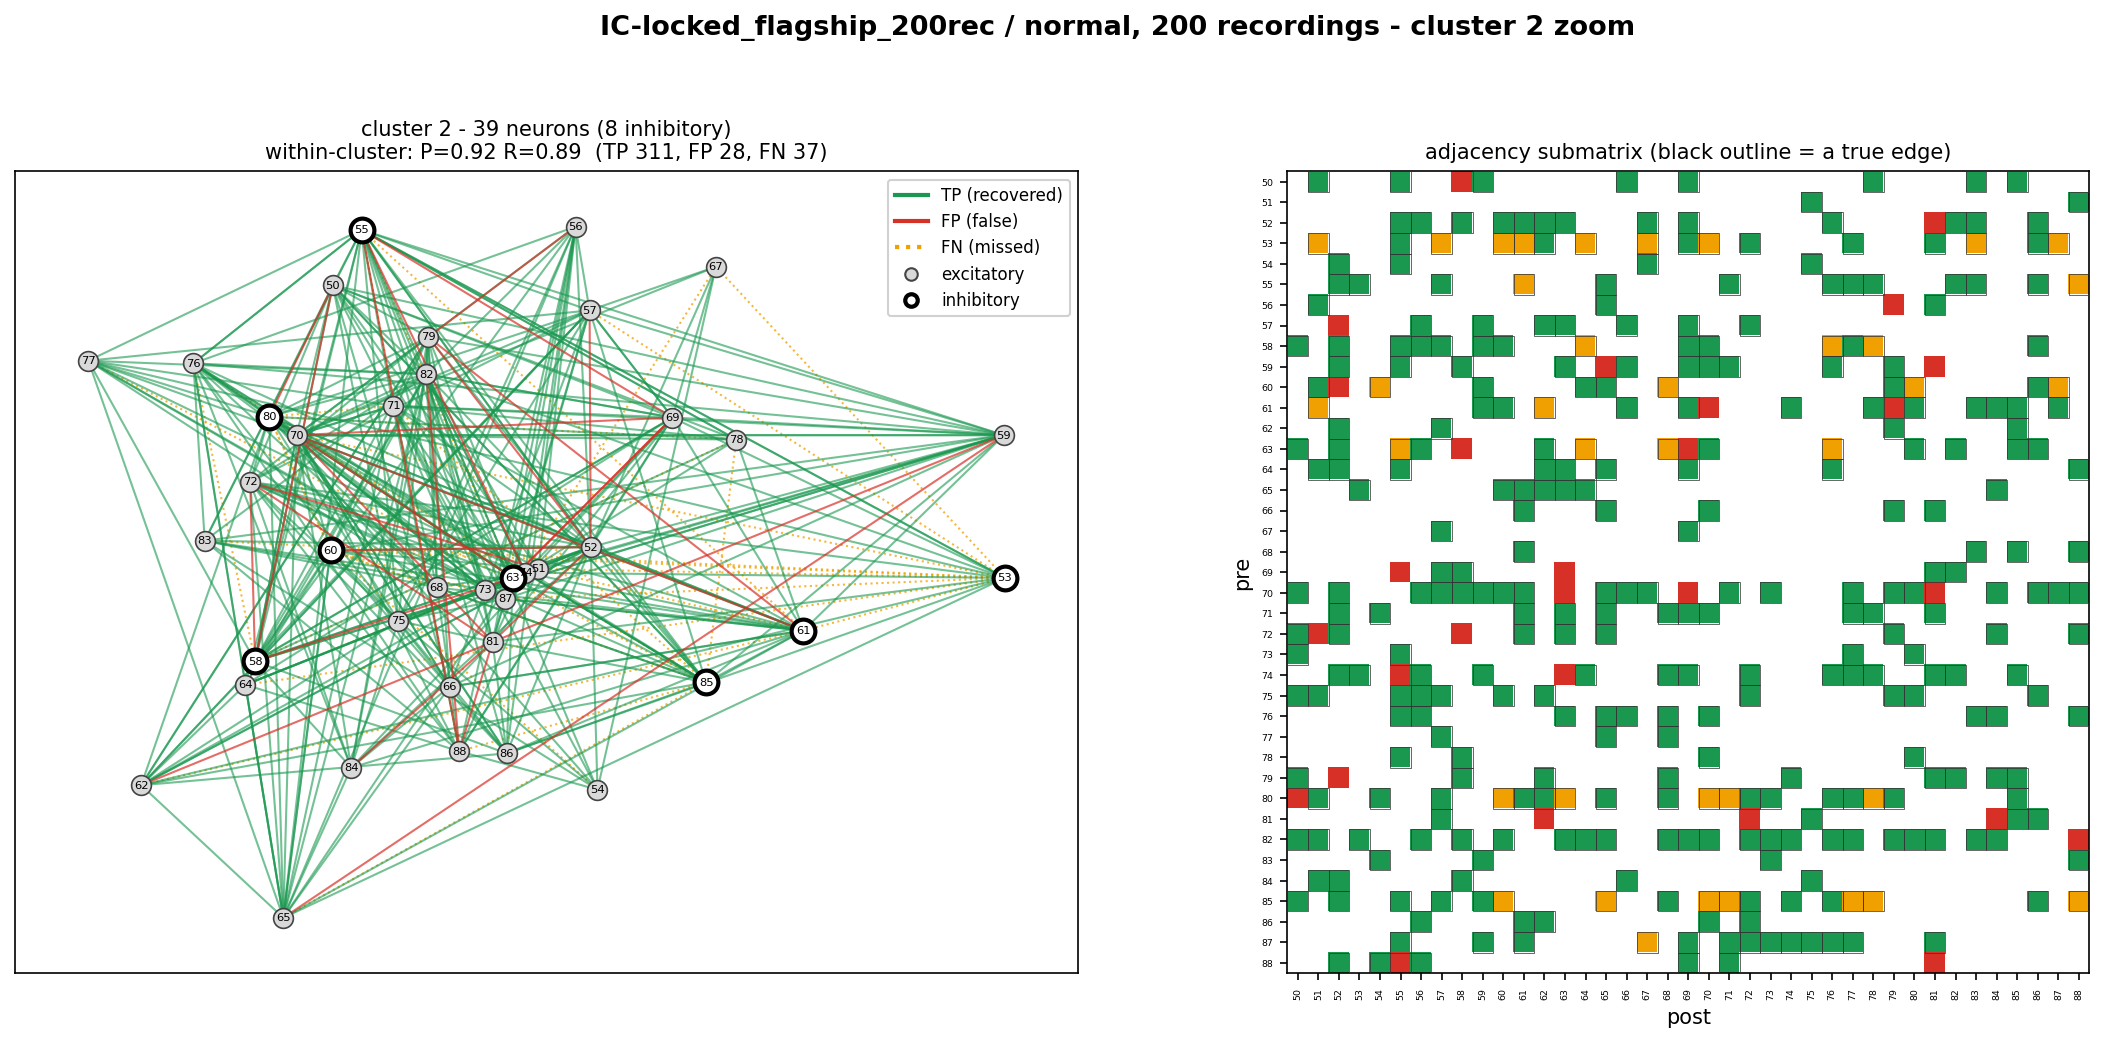
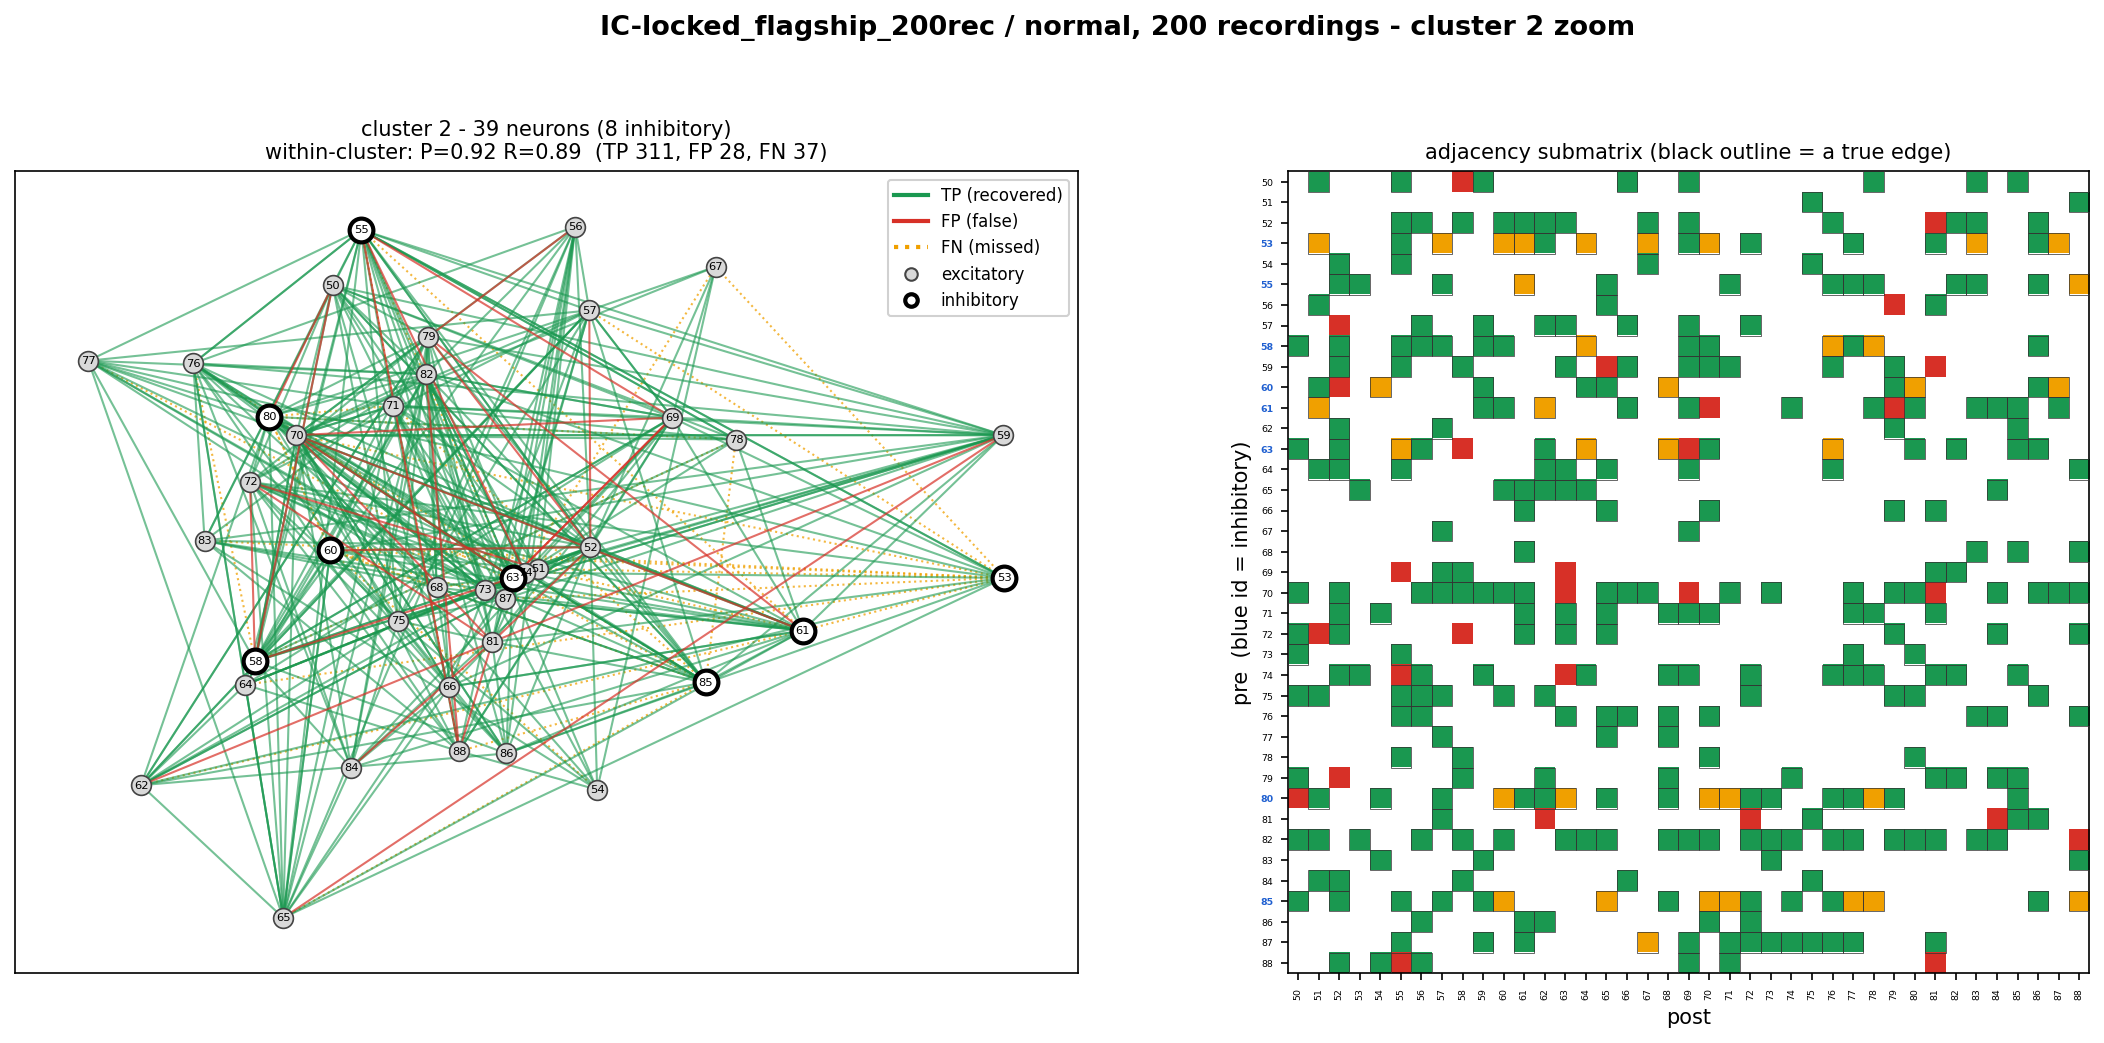
Mark inhibitory presynaptic rows in the zoom matrices; correct the docstring
The near-empty orange rows in the adjacency panels are inhibitory presynaptic
neurons losing most or all of their out-edges, so mark them: blue ids on the
per-cluster matrices, blue ticks on the group matrices. This makes the E/I
recall asymmetry readable off the figure instead of only off a table.

Measured on the n=200 normal fit: 53 of the 54 neurons that lose their ENTIRE
out-row are inhibitory -- 31.4% of inhibitory neurons against 0.1% of
excitatory. The cause is the typing gate, not weak edges. The inhibitory
candidate set only contains pairs whose presynaptic neuron was typed
inhibitory, so all 36 true-inhibitory neurons the rank rule misses have recall
exactly 0 by construction; their negative weights cannot clear the excitatory
threshold either. 17 more were typed correctly and still lost every edge.
Edge-level recall is 0.894 excitatory vs 0.565 inhibitory.

Also correct the docstring, which claimed the panels draw "every edge that
touches the cluster". They slice np.ix_(ids, ids) -- both endpoints must be in
the cluster, so edges leaving it are not drawn. Say so, and point at
--group-size for the view that does show between-cluster edges.

diff --git a/analysis/glm_topology_zoom.py b/analysis/glm_topology_zoom.py
@@ -4,16 +4,31 @@ The whole-network figure draws 13,356 edges over 926 neurons, so the neurons
 disappear under the lines. These zooms take one cluster at a time:
 
     left   spatial view of that cluster's neurons -- each one visible, excitatory
-           filled grey, inhibitory ringed -- with every edge that touches the
-           cluster drawn as TP / FP / FN
+           filled grey, inhibitory ringed -- with the WITHIN-cluster edges drawn
+           as TP / FP / FN
     right  the adjacency submatrix for the same neurons, one cell per pair, with
            the true edge outlined so hits and misses are countable by eye
 
-One PNG per cluster, plus a combined figure covering several clusters at once.
-Scores in each title are computed over the WITHIN-cluster pairs shown.
+Only pairs with BOTH endpoints in the cluster are shown; an edge from a cluster
+neuron to a neuron outside it is not drawn. Scores in each title are computed
+over those within-cluster pairs, so they are local and differ from the global
+P=0.87 / R=0.85. Use --group-size to put several adjacent clusters in one panel,
+which does show the between-cluster edges.
 
-    python glm_topology_zoom.py                    # 3 largest clusters
+Reading the rows: near-empty rows in these matrices are almost always inhibitory
+presynaptic neurons, so inhibitory ids are marked in blue. Measured on the n=200
+normal fit: 53 of the 54 neurons that lose their ENTIRE out-row are inhibitory --
+31.4% of inhibitory neurons versus 0.1% of excitatory ones. The cause is the
+typing gate rather than weak edges: the inhibitory candidate set only contains
+pairs whose presynaptic neuron was typed inhibitory, so all 36 true-inhibitory
+neurons that the rank rule missed have recall exactly 0 by construction (their
+negative weights cannot clear the excitatory threshold either). A further 17 were
+typed correctly and still lost every edge. Edge-level recall is 0.894 excitatory
+versus 0.565 inhibitory.
+
+    python glm_topology_zoom.py                    # 3 largest clusters + groups
     python glm_topology_zoom.py --clusters 4 2 35
+    python glm_topology_zoom.py --group-size 3 --n-groups 4
 """
 
 import argparse
@@ -42,7 +57,7 @@ SD = resolve(_S, _T)
 RESULTS = results_dir(_S, _T, "glm")
 FIGS = results_dir(_S, _T, "figures")
 
-GREEN, RED, ORANGE = "#1a9850", "#d73027", "#f0a000"
+GREEN, RED, ORANGE, BLUE = "#1a9850", "#d73027", "#f0a000", "#1f5fd0"
 
 
 def load():
@@ -120,8 +135,14 @@ def panels(d, ids, ax_sp, ax_mx, title_prefix, show_ids=True):
         ax_mx.set_yticks(range(n))
         ax_mx.set_xticklabels([str(g) for g in ids], fontsize=4.5, rotation=90)
         ax_mx.set_yticklabels([str(g) for g in ids], fontsize=4.5)
+        # inhibitory presynaptic ids in blue: rows that lose most or all of
+        # their edges are overwhelmingly these (see module docstring)
+        for t, g in zip(ax_mx.get_yticklabels(), ids):
+            if inh[g]:
+                t.set_color(BLUE)
+                t.set_fontweight("bold")
     ax_mx.set_xlabel("post")
-    ax_mx.set_ylabel("pre")
+    ax_mx.set_ylabel("pre  (blue id = inhibitory)")
     ax_mx.set_title("adjacency submatrix (black outline = a true edge)",
                     fontsize=10)
     return dict(n=len(ids), TP=TP, FP=FP, FN=FN, precision=Pr, recall=Rc)
@@ -190,8 +211,12 @@ def group_panels(d, clusters, ax_sp, ax_mx):
     ax_mx.set_yticks(mids)
     ax_mx.set_xticklabels(["c%d" % c for c in clusters], fontsize=9)
     ax_mx.set_yticklabels(["c%d" % c for c in clusters], fontsize=9)
+    # mark inhibitory presynaptic rows -- the sparse/empty rows line up with these
+    inh_rows = np.where(inh[ids])[0]
+    ax_mx.plot(np.full(len(inh_rows), -0.045 * len(ids)), inh_rows, "_",
+               color=BLUE, ms=5, mew=1.6, clip_on=False, zorder=6)
     ax_mx.set_xlabel("post")
-    ax_mx.set_ylabel("pre")
+    ax_mx.set_ylabel("pre   (blue ticks = inhibitory)")
     ax_mx.set_title("adjacency, blocks = clusters\n"
                     "diagonal blocks within-cluster, off-diagonal between",
                     fontsize=10)

diff --git a/analysis/write_figures_index.py b/analysis/write_figures_index.py
@@ -96,7 +96,11 @@ FIGURES = {
         "Same npz and operating point as glm_predicted_topology.png; this is a "
         "crop of it, not a re-fit. Only WITHIN-cluster pairs appear, so the "
         "precision and recall printed per cluster are local, not the global "
-        "P=0.87 / R=0.85."),
+        "P=0.87 / R=0.85. Inhibitory presynaptic ids are blue: the near-empty "
+        "orange rows line up with them. Network-wide, 53 of the 54 neurons that "
+        "lose their entire out-row are inhibitory (31.4% of inhibitory neurons "
+        "vs 0.1% of excitatory), driven by the typing gate -- the 36 true "
+        "inhibitory neurons the rank rule misses have recall 0 by construction."),
     "glm_topology_zoom_group1.png": (
         "analysis/glm_topology_zoom.py",
         "Four spatially adjacent clusters together: between-cluster edges are "

diff --git a/notebooks/NEURON data parallel/IC-locked_flagship_200rec/results/FIGURES.md b/notebooks/NEURON data parallel/IC-locked_flagship_200rec/results/FIGURES.md
@@ -103,7 +103,7 @@ ORACLE upper bounds vs duration: best achievable F1, and recall at a true 10% FD
 
 The three largest clusters, one row each: spatial zoom with neurons labelled by global id, and the within-cluster adjacency submatrix.
 
-*Pipeline:* Same npz and operating point as glm_predicted_topology.png; this is a crop of it, not a re-fit. Only WITHIN-cluster pairs appear, so the precision and recall printed per cluster are local, not the global P=0.87 / R=0.85.
+*Pipeline:* Same npz and operating point as glm_predicted_topology.png; this is a crop of it, not a re-fit. Only WITHIN-cluster pairs appear, so the precision and recall printed per cluster are local, not the global P=0.87 / R=0.85. Inhibitory presynaptic ids are blue: the near-empty orange rows line up with them. Network-wide, 53 of the 54 neurons that lose their entire out-row are inhibitory (31.4% of inhibitory neurons vs 0.1% of excitatory), driven by the typing gate -- the 36 true inhibitory neurons the rank rule misses have recall 0 by construction.
 
 ### `glm_topology_zoom_cluster04.png`
 
@@ -111,7 +111,7 @@ The three largest clusters, one row each: spatial zoom with neurons labelled by 
 
 The three largest clusters, one row each: spatial zoom with neurons labelled by global id, and the within-cluster adjacency submatrix.
 
-*Pipeline:* Same npz and operating point as glm_predicted_topology.png; this is a crop of it, not a re-fit. Only WITHIN-cluster pairs appear, so the precision and recall printed per cluster are local, not the global P=0.87 / R=0.85.
+*Pipeline:* Same npz and operating point as glm_predicted_topology.png; this is a crop of it, not a re-fit. Only WITHIN-cluster pairs appear, so the precision and recall printed per cluster are local, not the global P=0.87 / R=0.85. Inhibitory presynaptic ids are blue: the near-empty orange rows line up with them. Network-wide, 53 of the 54 neurons that lose their entire out-row are inhibitory (31.4% of inhibitory neurons vs 0.1% of excitatory), driven by the typing gate -- the 36 true inhibitory neurons the rank rule misses have recall 0 by construction.
 
 ### `glm_topology_zoom_cluster35.png`
 
@@ -119,7 +119,7 @@ The three largest clusters, one row each: spatial zoom with neurons labelled by 
 
 The three largest clusters, one row each: spatial zoom with neurons labelled by global id, and the within-cluster adjacency submatrix.
 
-*Pipeline:* Same npz and operating point as glm_predicted_topology.png; this is a crop of it, not a re-fit. Only WITHIN-cluster pairs appear, so the precision and recall printed per cluster are local, not the global P=0.87 / R=0.85.
+*Pipeline:* Same npz and operating point as glm_predicted_topology.png; this is a crop of it, not a re-fit. Only WITHIN-cluster pairs appear, so the precision and recall printed per cluster are local, not the global P=0.87 / R=0.85. Inhibitory presynaptic ids are blue: the near-empty orange rows line up with them. Network-wide, 53 of the 54 neurons that lose their entire out-row are inhibitory (31.4% of inhibitory neurons vs 0.1% of excitatory), driven by the typing gate -- the 36 true inhibitory neurons the rank rule misses have recall 0 by construction.
 
 ### `glm_topology_zoom_combined.png`
 
@@ -127,7 +127,7 @@ The three largest clusters, one row each: spatial zoom with neurons labelled by 
 
 The three largest clusters, one row each: spatial zoom with neurons labelled by global id, and the within-cluster adjacency submatrix.
 
-*Pipeline:* Same npz and operating point as glm_predicted_topology.png; this is a crop of it, not a re-fit. Only WITHIN-cluster pairs appear, so the precision and recall printed per cluster are local, not the global P=0.87 / R=0.85.
+*Pipeline:* Same npz and operating point as glm_predicted_topology.png; this is a crop of it, not a re-fit. Only WITHIN-cluster pairs appear, so the precision and recall printed per cluster are local, not the global P=0.87 / R=0.85. Inhibitory presynaptic ids are blue: the near-empty orange rows line up with them. Network-wide, 53 of the 54 neurons that lose their entire out-row are inhibitory (31.4% of inhibitory neurons vs 0.1% of excitatory), driven by the typing gate -- the 36 true inhibitory neurons the rank rule misses have recall 0 by construction.
 
 ### `glm_topology_zoom_group1.png`
 
